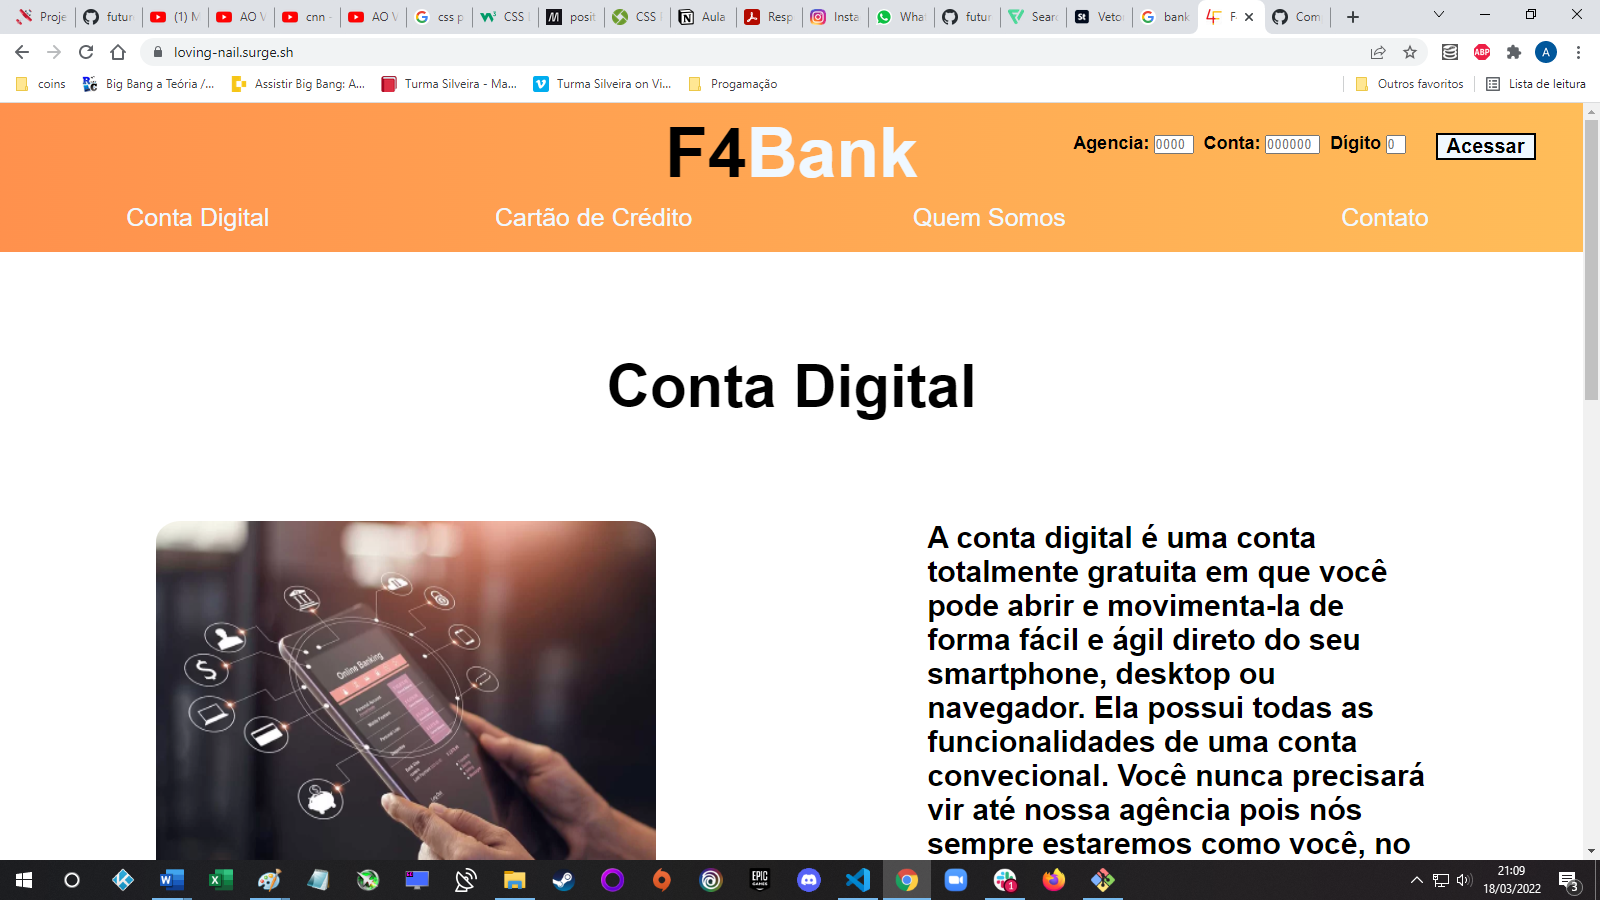
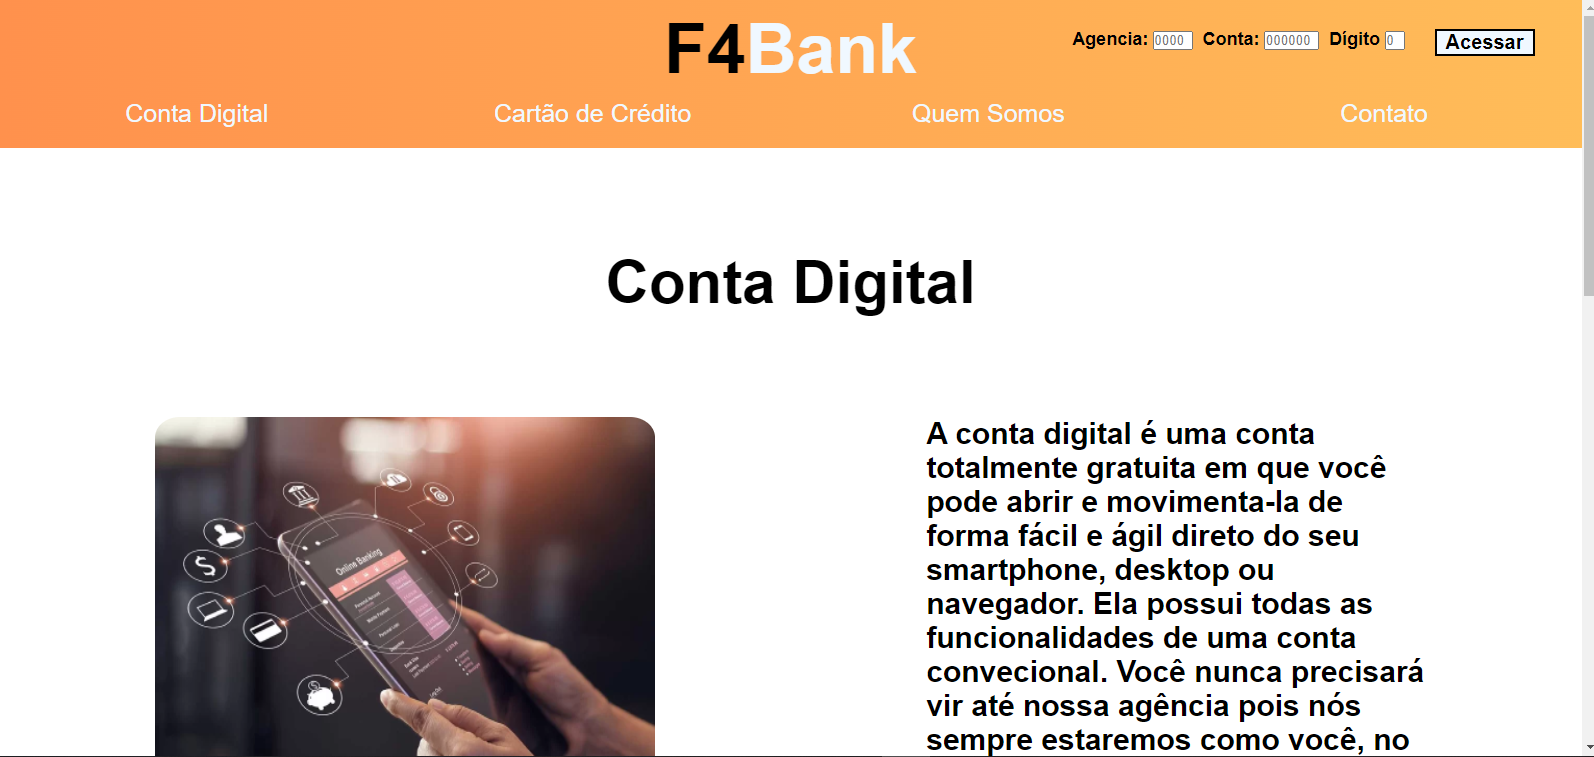
update

diff --git a/README.md b/README.md
@@ -12,11 +12,11 @@ Adeir Moreira - gitHub https://github.com/future4code/silveira-Adeir-Maia <br>
 Helen Caroline -gitHub https://github.com/future4code/silveira-Helen-Pereira
 
 A página pode ser acessada através do link:
-[F4Bank](Labenu-LandigPage5.surge.sh)
+[F4Bank](https://labenu-landigpage5.surge.sh/)
 
 <p align="center">
-    <img src="./Projeto Landing Page/img/f41.png" height="650" width="550" >
-    <img src="./Projeto Landing Page/img/f42.png" height="650" width="500" >
+    <img src="./Projeto Landing Page/img/f41.png">
+    <img src="./Projeto Landing Page/img/f42.png">
 </p>
 
 
